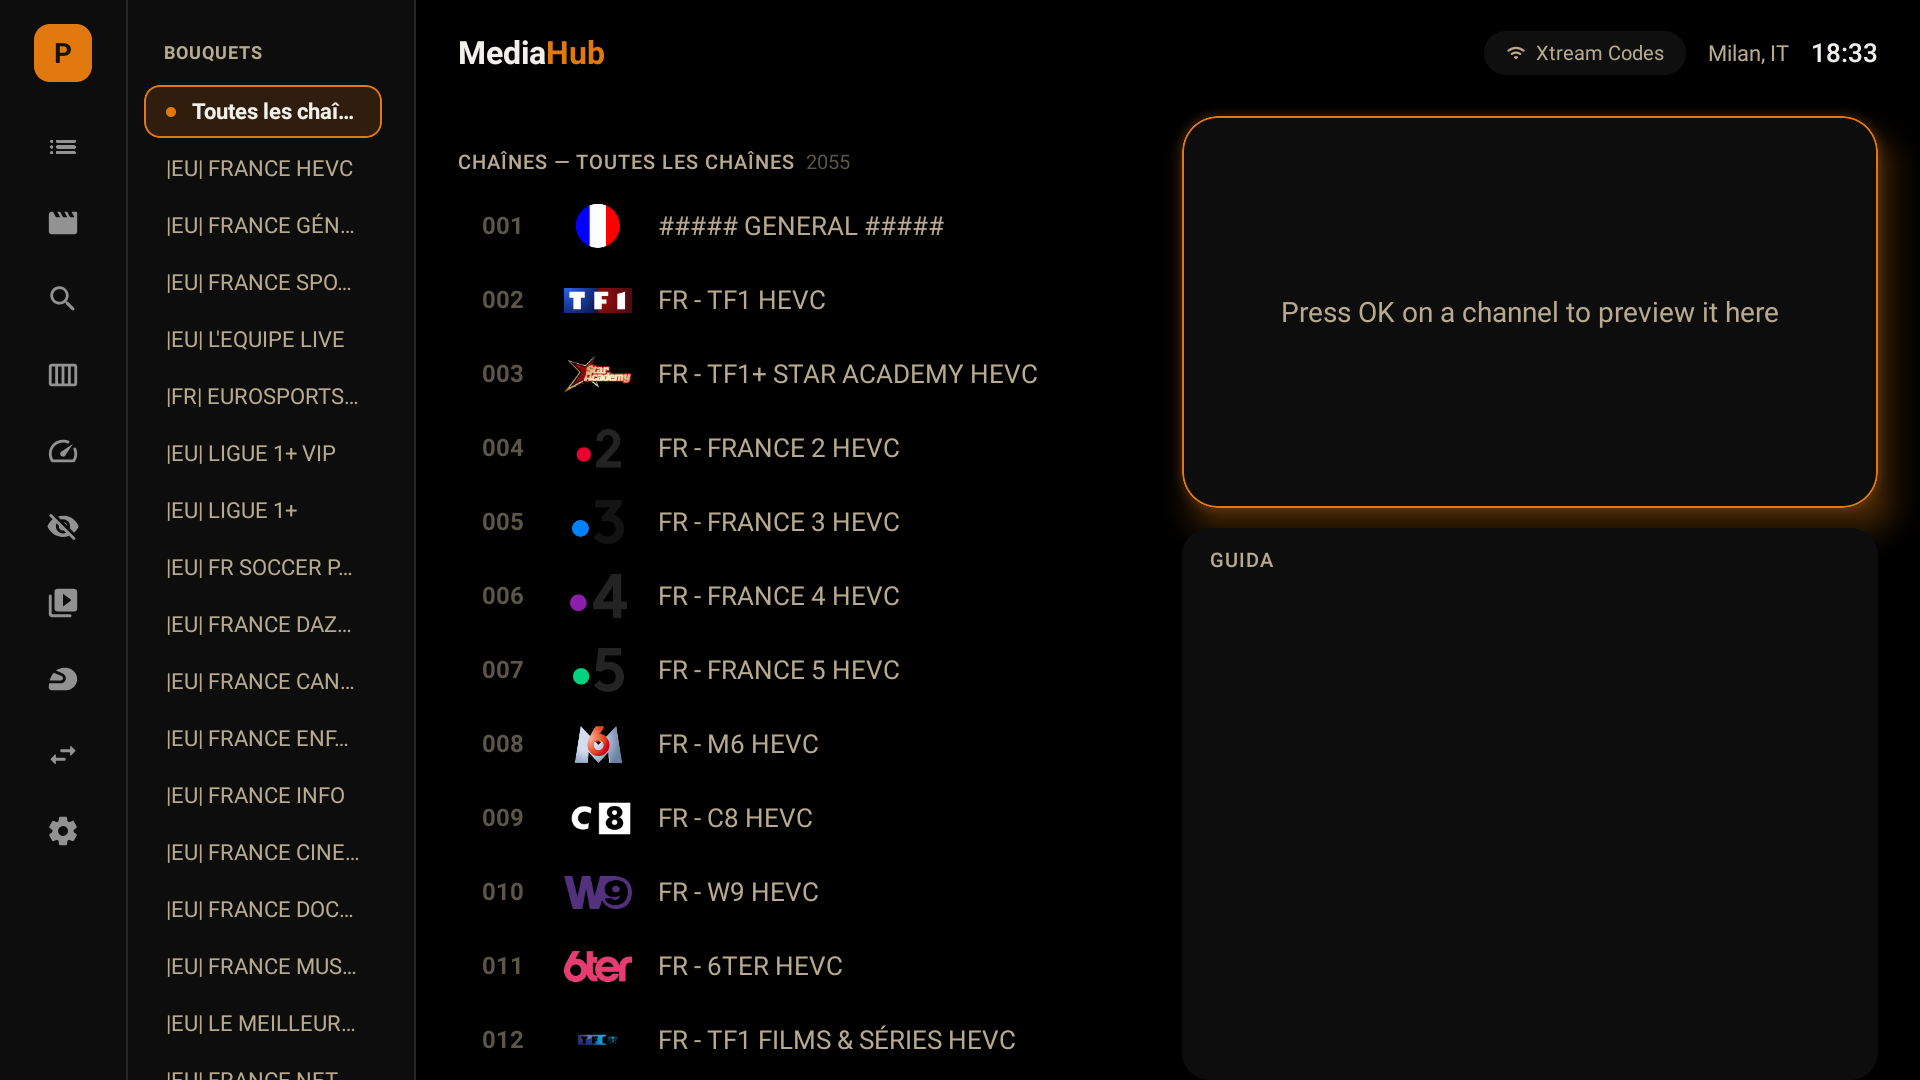
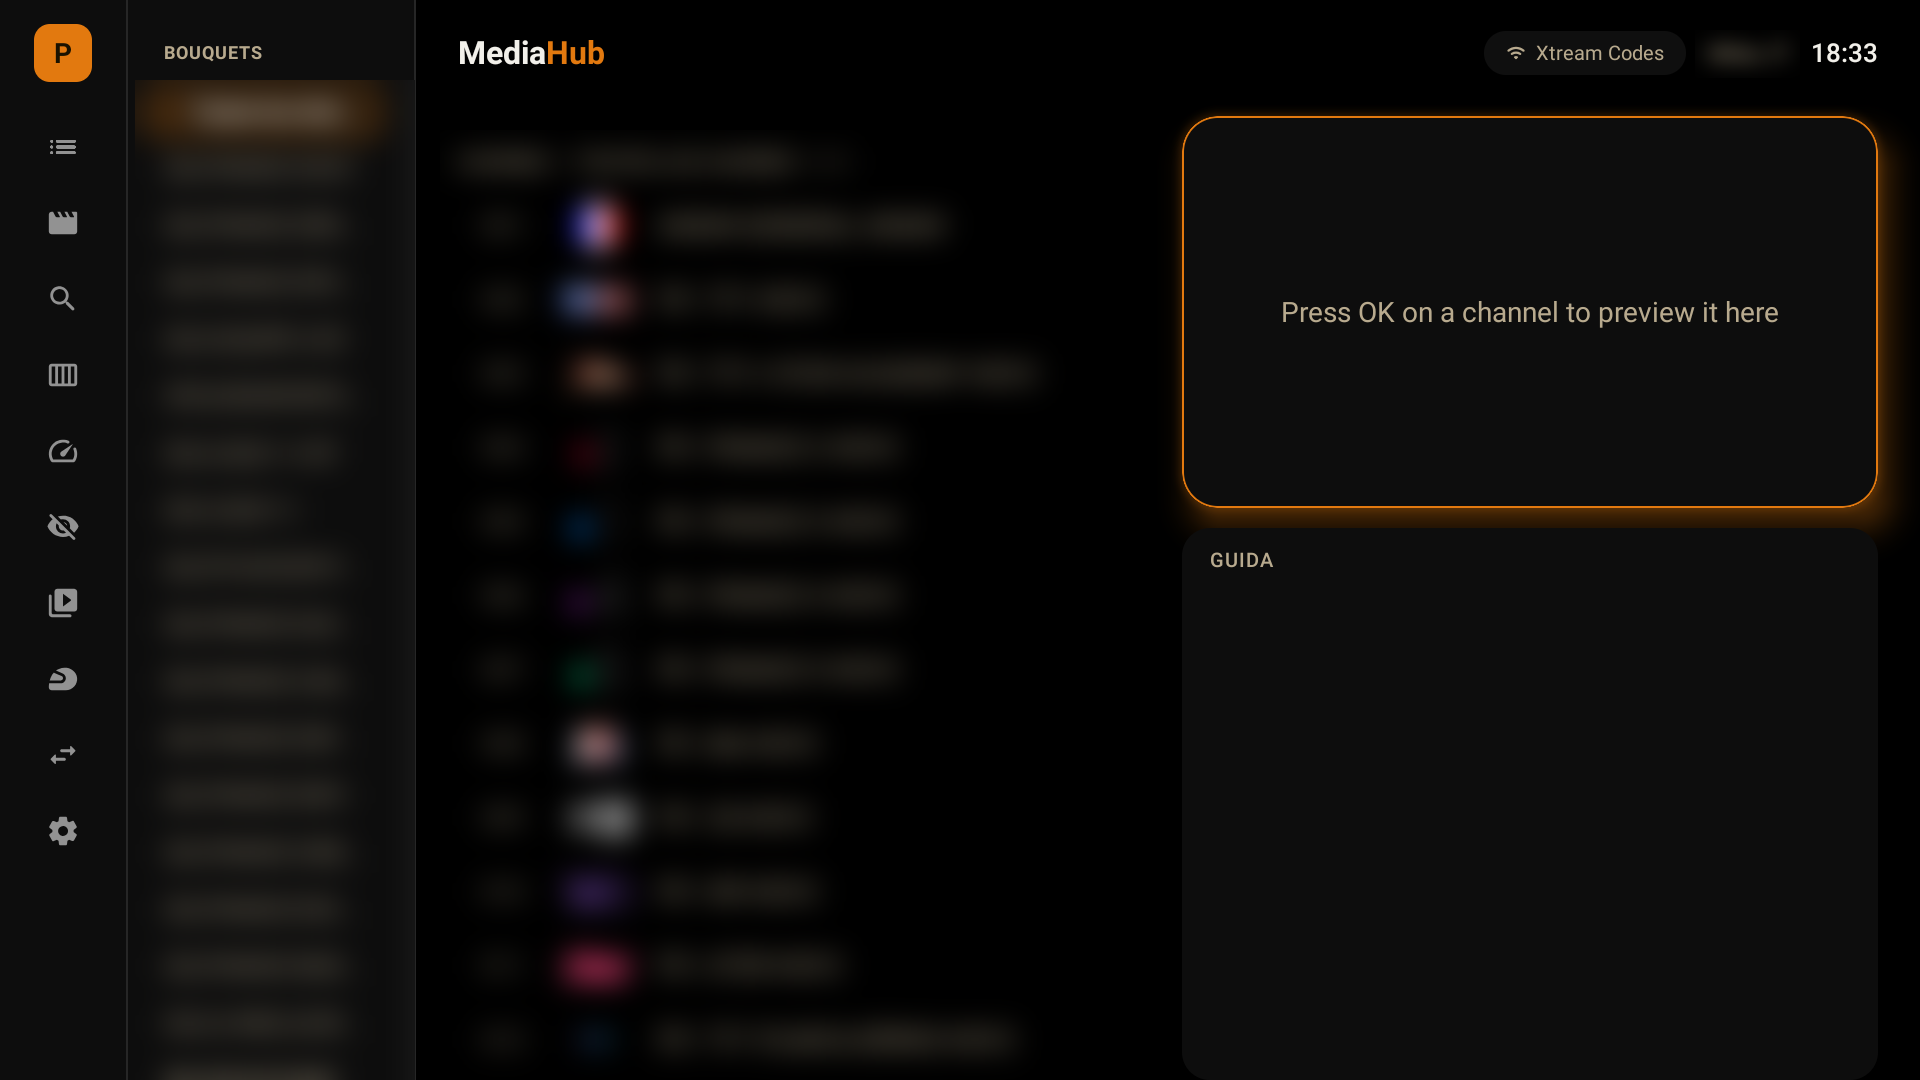
Screenshot: nasconde lista canali e localita'

diff --git a/HANDOFF.md b/HANDOFF.md
@@ -1,0 +1,6 @@
+# MediaHub GitHub — bozza locale del repository pubblico
+- 3/11: creati README.md (it), README.en.md, docs/DOWNLOAD.md, docs/screenshots/android-tv-home.png (screenshot reale dalla Sony). Solo git locale, NON pubblicato.
+- Il codice sorgente resta privato: il repository contiene solo documentazione e link ai file su Google Drive.
+- Da fare (solo con ok dell'utente): altri screenshot (player, guida, Windows, MediaHub OS), creare il repo su GitHub e attivare Pages.
+- Attenzione: lo screenshot mostra la lista di un provider IPTV (nomi/loghi canali): valutare se sostituirlo prima di renderlo pubblico.
+- I link Drive nei README vanno aggiornati a ogni nuova build (stessi nomi di mediahub-download/links.json).
